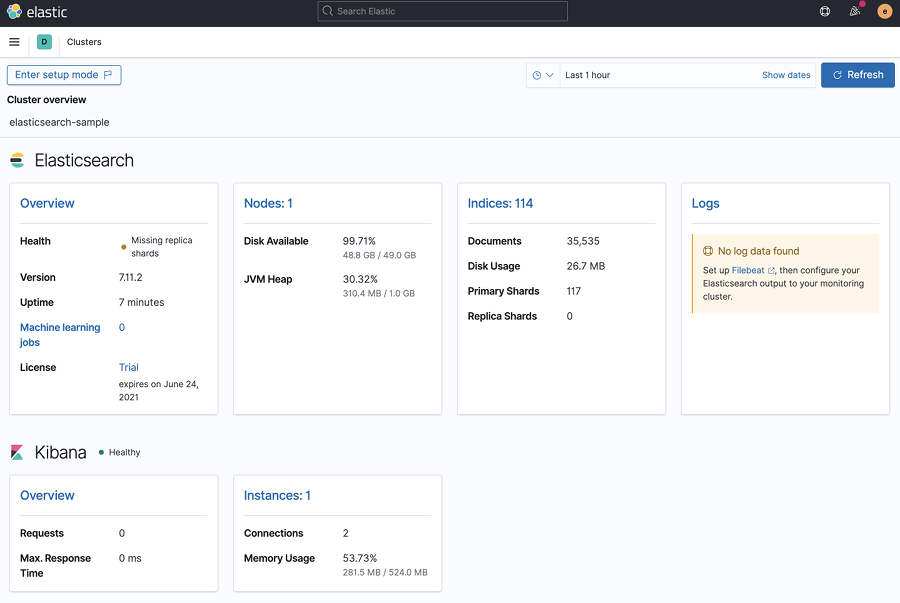
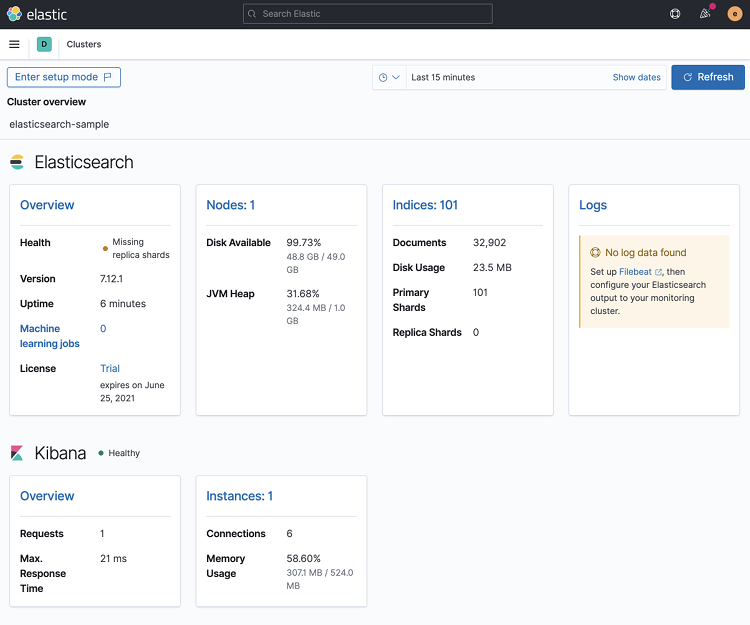
update to ECK 1.6 and Elastic Stack 7.12.1-7.13.0

diff --git a/basic/README.md b/basic/README.md
@@ -1,14 +1,21 @@
 # Basic Elastic Stack Deployment
 
 - Once we [installed GKE and ECK](../install-gke-and-eck.md), we can proceed to deploy a simple example.
-- We will now install an Elastic Stack defined in the following file: [basic-complete-elastic-stack.yaml](basic-complete-elastic-stack.yaml). You can check basic samples [here](https://github.com/elastic/cloud-on-k8s/tree/1.5/config/samples) and the documentation [here](https://www.elastic.co/guide/en/cloud-on-k8s/1.5/k8s-orchestrating-elastic-stack-applications.html).
-- It's a simple definition for an Elastic Stack version `7.11.2`, with a one-node Elasticsearch cluster, an APM server, EnterpriseSearch and a single Kibana instance.
+- We will now install an Elastic Stack defined in the following file: [basic-complete-elastic-stack.yaml](basic-complete-elastic-stack.yaml). You can check basic samples [here](https://github.com/elastic/cloud-on-k8s/tree/1.6/config/samples) and the documentation [here](https://www.elastic.co/guide/en/cloud-on-k8s/1.6/k8s-orchestrating-elastic-stack-applications.html).
+- It's a simple definition for an Elastic Stack version `7.12.1`, with a one-node Elasticsearch cluster, an APM server, EnterpriseSearch and a single Kibana instance.
     - The Elasticsearch nodes in the example are configured to limit container resources to 2G memory and 1 CPU.
-    - Pods can be [customized](https://www.elastic.co/guide/en/cloud-on-k8s/1.5/k8s-customize-pods.html) modifying the `pod template` to add parameters like the Elasticsearch heap. 
-    - The deployment will also mount on a 50Gb volume claim. Check the documentation for [Volume Claim Templates](https://www.elastic.co/guide/en/cloud-on-k8s/1.5/k8s-volume-claim-templates.html). Starting in version `1.3.0` ECK supports [Elasticsearch volume expansion](https://www.elastic.co/guide/en/cloud-on-k8s/1.3/release-notes-1.5.0.html#feature-1.3.0).
+    - Pods can be [customized](https://www.elastic.co/guide/en/cloud-on-k8s/1.6/k8s-customize-pods.html) modifying the `pod template` to add parameters like the Elasticsearch heap. 
+    - The deployment will also mount on a 50Gb volume claim. Check the documentation for [Volume Claim Templates](https://www.elastic.co/guide/en/cloud-on-k8s/1.6/k8s-volume-claim-templates.html). Starting in version `1.3.0` ECK supports [Elasticsearch volume expansion](https://www.elastic.co/guide/en/cloud-on-k8s/1.3/release-notes-1.5.0.html#feature-1.3.0).
 
     ```shell
     kubectl apply -f basic-complete-elastic-stack.yaml
+    ```
+
+    ```shell
+    elasticsearch.elasticsearch.k8s.elastic.co/elasticsearch-sample created
+    kibana.kibana.k8s.elastic.co/kibana-sample created
+    apmserver.apm.k8s.elastic.co/apm-server-sample created
+    enterprisesearch.enterprisesearch.k8s.elastic.co/enterprise-search-sample created
     ```
 
 - We can monitor the deployment via `kubectl` until the components are healthy:
@@ -19,30 +26,30 @@
 
     ```shell
     NAME                                                              HEALTH    NODES   VERSION   PHASE             AGE
-    elasticsearch.elasticsearch.k8s.elastic.co/elasticsearch-sample   unknown           7.11.2    ApplyingChanges   26s
+    elasticsearch.elasticsearch.k8s.elastic.co/elasticsearch-sample   unknown           7.12.1    ApplyingChanges   32s
 
     NAME                                         HEALTH   NODES   VERSION   AGE
-    kibana.kibana.k8s.elastic.co/kibana-sample   red              7.11.2    26s
+    kibana.kibana.k8s.elastic.co/kibana-sample   red              7.12.1    32s
 
     NAME                                             HEALTH   NODES   VERSION   AGE
-    apmserver.apm.k8s.elastic.co/apm-server-sample                              25s
+    apmserver.apm.k8s.elastic.co/apm-server-sample                              31s
 
     NAME                                                                        HEALTH   NODES   VERSION   AGE
-    enterprisesearch.enterprisesearch.k8s.elastic.co/enterprise-search-sample   red              7.11.2    25s
+    enterprisesearch.enterprisesearch.k8s.elastic.co/enterprise-search-sample   red              7.12.1    31s
     ```
 
     ```shell
     NAME                                                              HEALTH   NODES   VERSION   PHASE   AGE
-    elasticsearch.elasticsearch.k8s.elastic.co/elasticsearch-sample   yellow   1       7.11.2    Ready   109s
+    elasticsearch.elasticsearch.k8s.elastic.co/elasticsearch-sample   yellow   1       7.12.1    Ready   2m47s
 
     NAME                                         HEALTH   NODES   VERSION   AGE
-    kibana.kibana.k8s.elastic.co/kibana-sample   green    1       7.11.2    109s
+    kibana.kibana.k8s.elastic.co/kibana-sample   green    1       7.12.1    2m47s
 
     NAME                                             HEALTH   NODES   VERSION   AGE
-    apmserver.apm.k8s.elastic.co/apm-server-sample   green    1       7.11.2    108s
+    apmserver.apm.k8s.elastic.co/apm-server-sample   green    1       7.12.1    2m46s
 
     NAME                                                                        HEALTH   NODES   VERSION   AGE
-    enterprisesearch.enterprisesearch.k8s.elastic.co/enterprise-search-sample   red              7.11.2    108s
+    enterprisesearch.enterprisesearch.k8s.elastic.co/enterprise-search-sample   green    1       7.12.1    2m46s
     ```
 
 - And check on the associated pods:
@@ -115,6 +122,33 @@
     kubectl port-forward service/elasticsearch-sample-es-http 9200
     ```
 
+    - And then we can access our cluster:
+
+        ```shell
+        curl -k https://localhost:9200/_cluster/health\?pretty -u elastic
+        ```
+
+        ```json
+        {
+            "cluster_name" : "elasticsearch-sample",
+            "status" : "yellow",
+            "timed_out" : false,
+            "number_of_nodes" : 1,
+            "number_of_data_nodes" : 1,
+            "active_primary_shards" : 106,
+            "active_shards" : 106,
+            "relocating_shards" : 0,
+            "initializing_shards" : 0,
+            "unassigned_shards" : 6,
+            "delayed_unassigned_shards" : 0,
+            "number_of_pending_tasks" : 0,
+            "number_of_in_flight_fetch" : 0,
+            "task_max_waiting_in_queue_millis" : 0,
+            "active_shards_percent_as_number" : 94.64285714285714
+        }
+        ```
+
+
 ### Scaling Elasticsearch
 
 - Now that we have our stack up and running, we can scale Elasticsearch from 1 to 3 nodes. If we look at the pod section in kubernetes, or at the deployed pods, we will see that our Elasticsearch has only one node.
@@ -141,7 +175,7 @@
     metadata:
     name: elasticsearch-sample
     spec:
-    version: 7.11.2
+    version: 7.12.1
     nodeSets:
     - name: default
         count: 3

diff --git a/README.md b/README.md
@@ -7,7 +7,7 @@ It's intended as a step by step guide to further investigate ECK capabilities on
 ## Pre-requisites
 
 - [Google Cloud SDK](https://cloud.google.com/sdk/install) configured on your laptop/workstation.
-- [kubectl](https://kubernetes.io/docs/tasks/tools/install-kubectl/). At the moment, ECK requires version 1.11+. See [ECK requirements](https://www.elastic.co/guide/en/cloud-on-k8s/1.3/k8s-quickstart.html).
+- [kubectl](https://kubernetes.io/docs/tasks/tools/install-kubectl/). At the moment, ECK requires version 1.16+. See [ECK requirements](https://www.elastic.co/guide/en/cloud-on-k8s/1.6/k8s-quickstart.html).
 - [jq](https://stedolan.github.io/jq//) (*Optional*). Command-line JSON processor.
 - [kubernetic](https://kubernetic.com/) (*Optional*). Kubernetes Desktop Client.
 
@@ -29,7 +29,7 @@ When we are done with the testing, it is recommended to follow the uninstall pro
 Once this is done for each example, we can remove the operator.
 
 ```shell
-kubectl delete -f https://download.elastic.co/downloads/eck/1.5.0/all-in-one.yaml
+kubectl delete -f https://download.elastic.co/downloads/eck/1.6.0/all-in-one.yaml
 ```
 
 And delete the GKE cluster. Login to Google Cloud Console and remove the cluster you created.

diff --git a/install-gke-and-eck.md b/install-gke-and-eck.md
@@ -70,7 +70,7 @@ Or using the Google Cloud Console.
 - Deploy the operator.
 
     ```shell
-    kubectl apply -f https://download.elastic.co/downloads/eck/1.5.0/all-in-one.yaml
+    kubectl apply -f https://download.elastic.co/downloads/eck/1.6.0/all-in-one.yaml
     ```
 
 - This will create the custom resources, cluster roles, namespace elastic-system, the operator, etc. for us.
@@ -83,6 +83,7 @@ configmap/elastic-operator created
 customresourcedefinition.apiextensions.k8s.io/agents.agent.k8s.elastic.co created
 customresourcedefinition.apiextensions.k8s.io/apmservers.apm.k8s.elastic.co created
 customresourcedefinition.apiextensions.k8s.io/beats.beat.k8s.elastic.co created
+customresourcedefinition.apiextensions.k8s.io/elasticmapsservers.maps.k8s.elastic.co created
 customresourcedefinition.apiextensions.k8s.io/elasticsearches.elasticsearch.k8s.elastic.co created
 customresourcedefinition.apiextensions.k8s.io/enterprisesearches.enterprisesearch.k8s.elastic.co created
 customresourcedefinition.apiextensions.k8s.io/kibanas.kibana.k8s.elastic.co created
